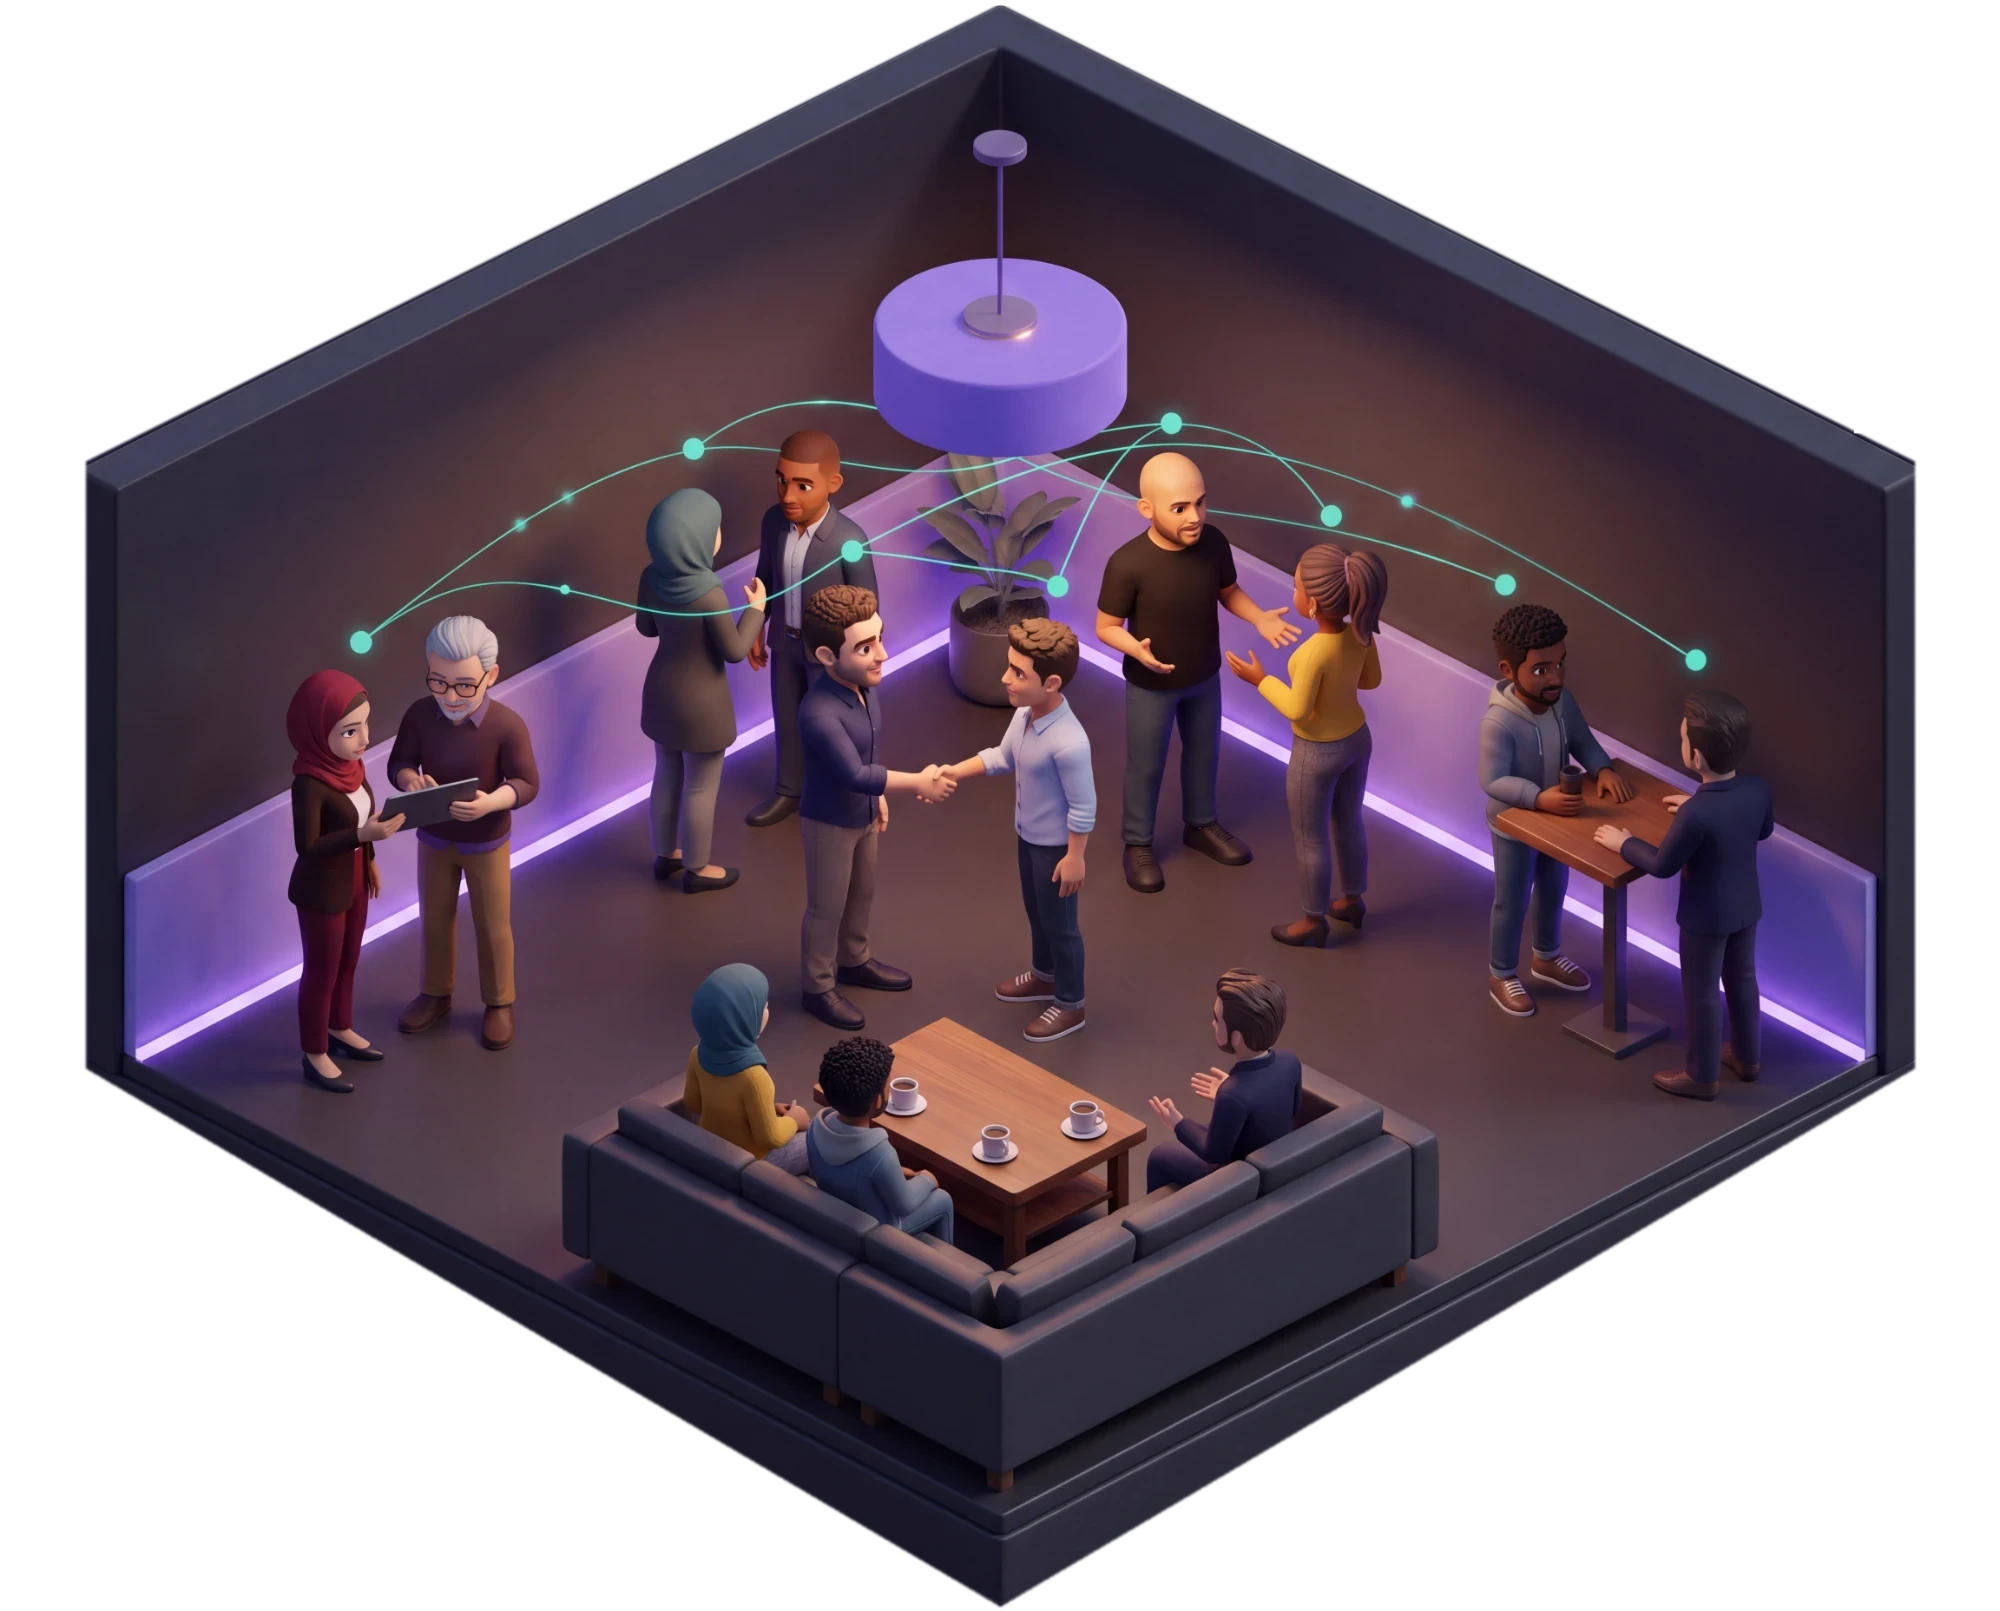
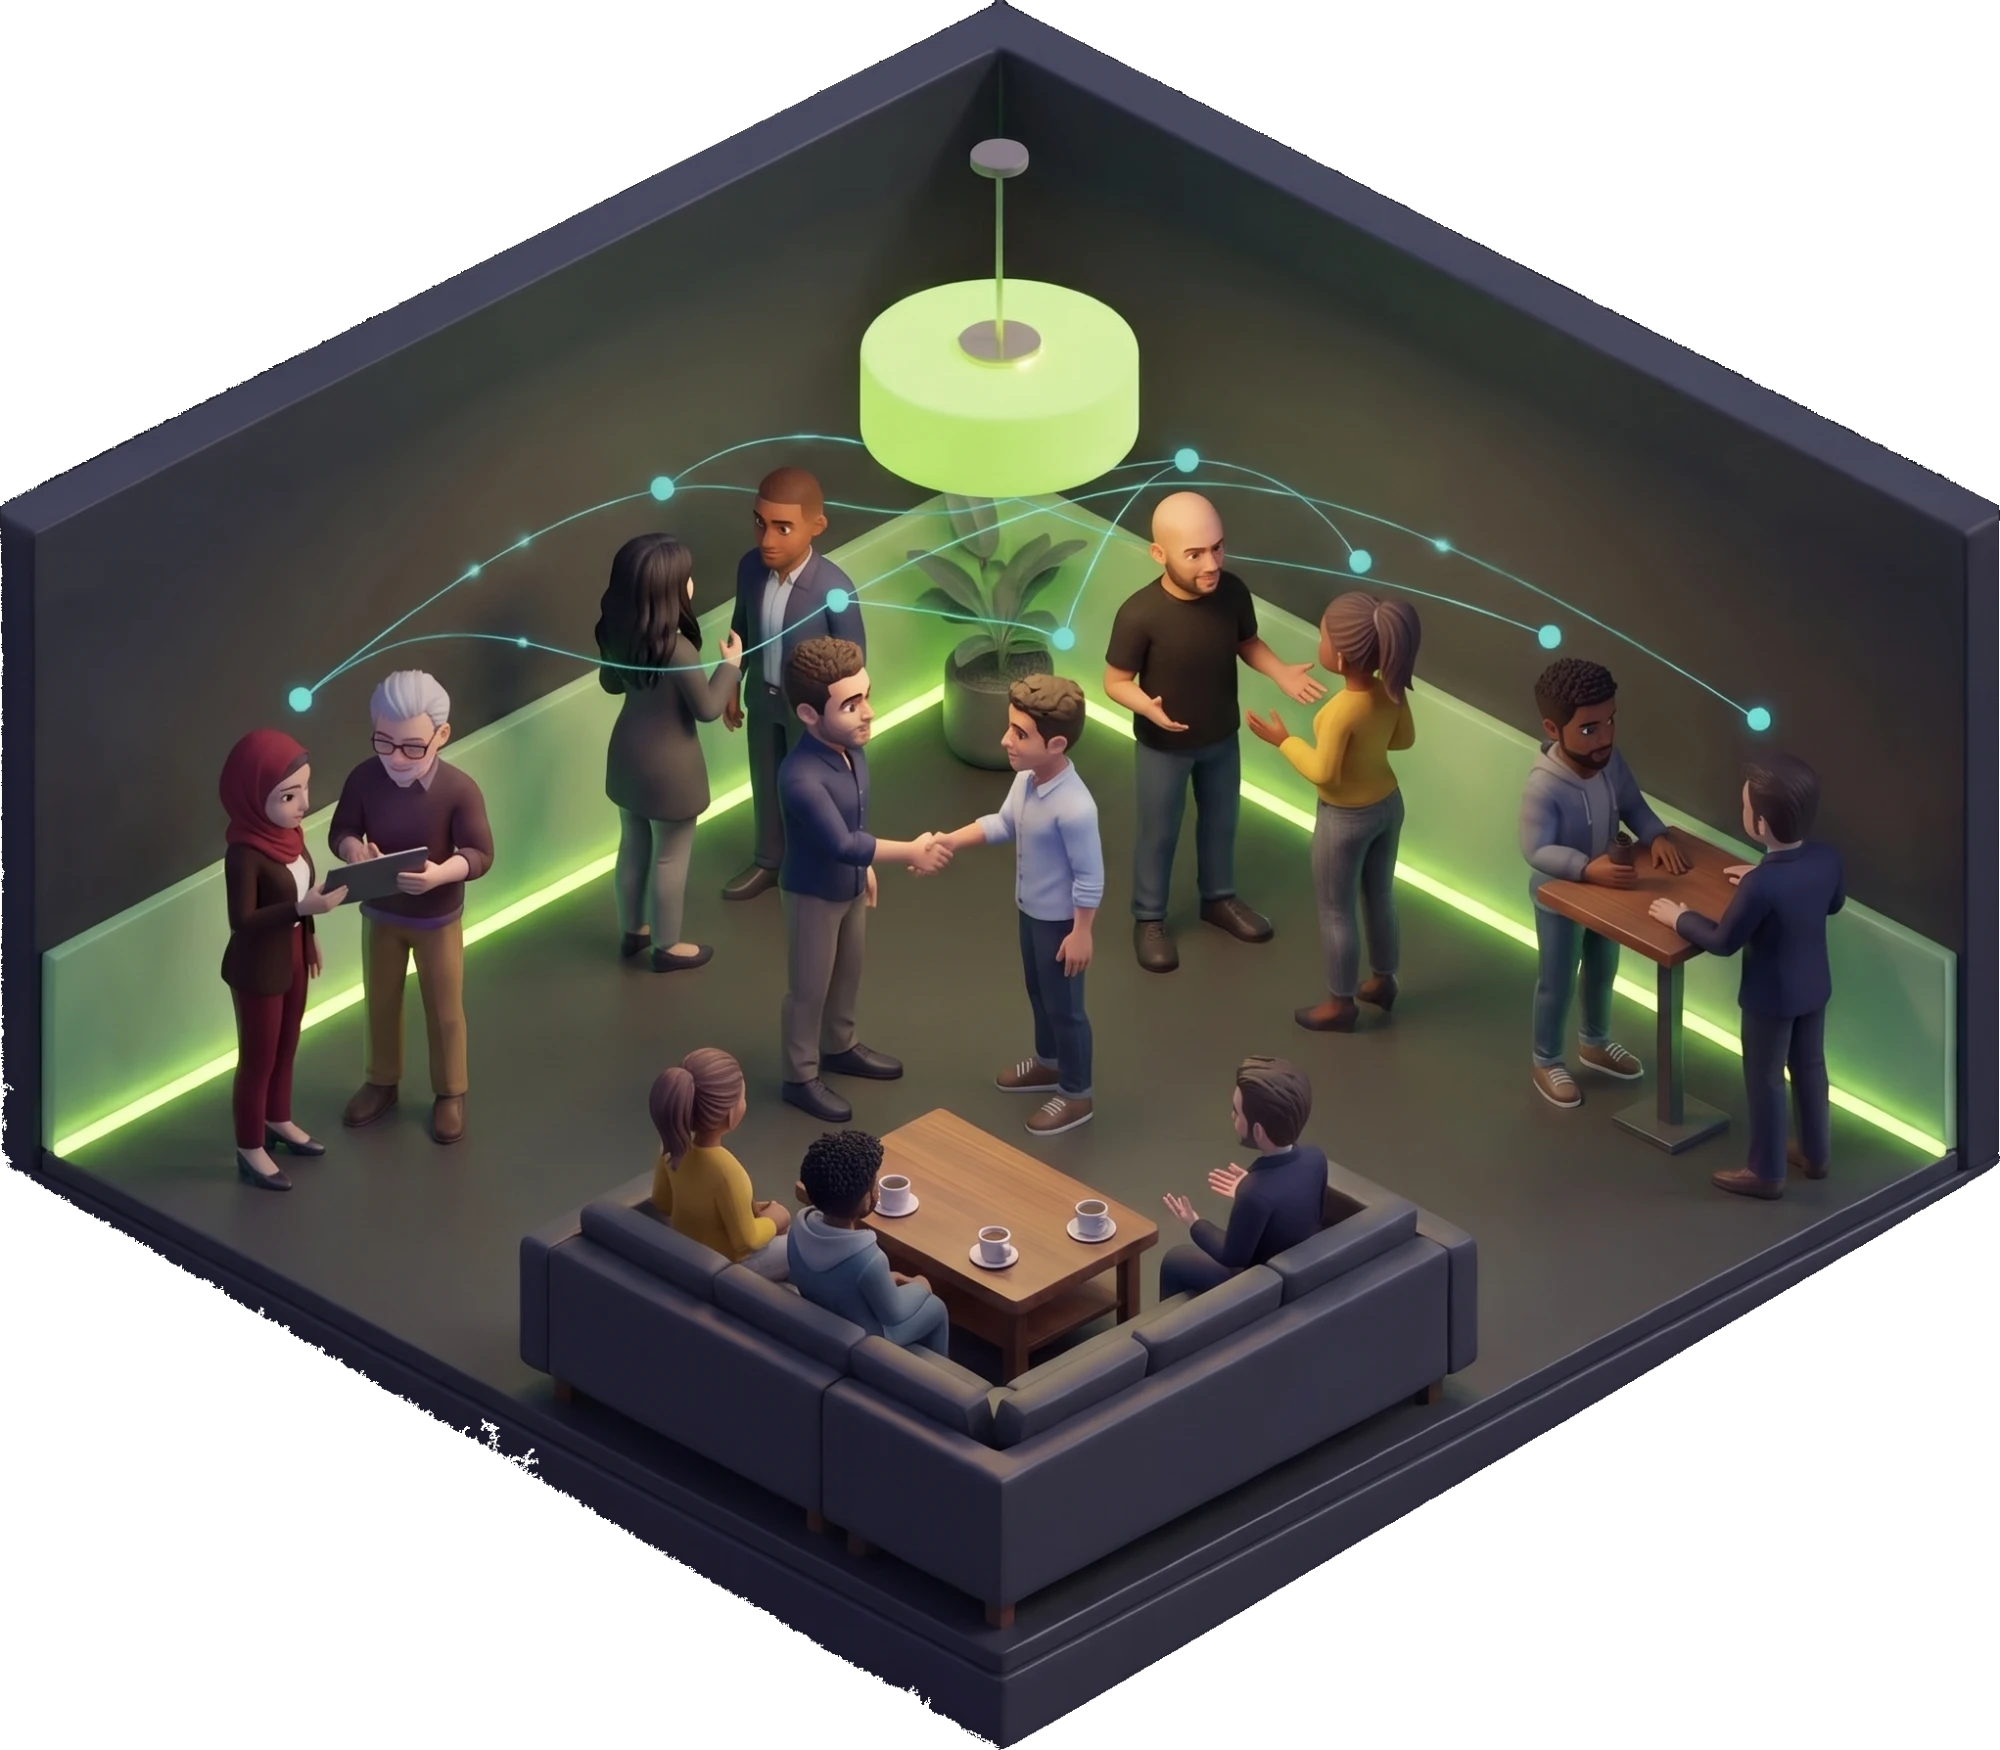
BLong scene: one hijab, green light
Claude-Session: https://claude.ai/code/session_018RCKuAqLNg43PyQqtjNNDi

diff --git a/src/components/house/scenes.ts b/src/components/house/scenes.ts
@@ -58,7 +58,7 @@ export const SCENES: Partial<Record<SpaceKey, Scene>> = {
     labels: [{ label: "QuidQuo", x: 72, y: 22 }, { label: "Handlr", x: 30, y: 30 }],
   },
   blong: {
-    src: "/landing/blong.webp", width: 2000, height: 1611, alt: "BLong: members networking in a lounge under a violet light, linked by teal threads",
+    src: "/landing/blong.webp", width: 2000, height: 1750, alt: "BLong: members networking in a lounge under a green light, linked by teal threads",
     flows: [],
     labels: [{ label: "Meet", x: 20, y: 30 }, { label: "Talk", x: 50, y: 14 }, { label: "Connect", x: 82, y: 32 }],
   },

diff --git a/src/app/site/page.tsx b/src/app/site/page.tsx
@@ -156,7 +156,7 @@ const SPACES: Space[] = [
     cta: "Meet the community",
     href: "/blong/networking",
     photo: "/landing/blong.webp",
-    size: [2000, 1611],
+    size: [2000, 1750],
     labels: [{ label: "Meet", x: 20, y: 30 }, { label: "Talk", x: 50, y: 14 }, { label: "Connect", x: 82, y: 32 }],
     flows: [],
     icon: Network,

diff --git a/CLAUDE.md b/CLAUDE.md
@@ -116,3 +116,4 @@ Add product decisions here as they are made (prices, refund policy, roles, langu
 - Phase 19d live (2026-11-25): filters and sort under BLong lists (a Filters button, choices kept in the address). Communities: topic, audience, Public/Private, size; sort by members, newest, name. Discussions: community, who can join, open/closed, tag, has room; sort by active, newest, members (both filtered in the app, `src/lib/blong/filters.ts`). Networking › Members: country, business type, venture stage, Public/Private, follows you; sort by name or newest (`member_search`, `member_countries`). Feed: by kind. Phase 19 complete.
 - House look tweaks (2026-11-25, asked by Ahmed): the morph between spaces replaced by a light slide-and-fade (the scene lags a little, scales to 90% and fades; transform and opacity only, no blur, 3D turn or clipping) because the morph was heavy and glitchy. My space no longer has My communities / My discussions icons (they live in BLong); the floating card is Saved.
 - Eureka (2026-11-26, asked by Ahmed): the QuidQuo space becomes Eureka, our products lab, with two products: QuidQuo (AI for capital formation) and Handlr (AI executive assistant for professionals and businesses). Colours swapped: Eureka violet `#7C5CE0` (tint `#B4A2F5`), BLong green `#8DBF2E` (tint `#B4DD5E`); the internal space key and `qq` tokens stay `quidquo`. Each product has its own stages, build log and waitlist (`product` column on `qq_stages`, `qq_log`, `waitlist`; one entry per member per product; Handlr started with a copy of QuidQuo's stages). Handlr waitlist roles: Professional, Business owner or team, Executive assistant or operations. Member pages `/eureka` (product cards) and `/eureka/[product]` (logo banner, stages, build log, waitlist, `?tab=waitlist`); `/quidquo` redirects there, invite links included. Product config and logos in `src/lib/eureka.ts`; QuidQuo logos in `public/brand/products/quidquo/` (Handlr shows a wordmark until its logo arrives). Admin › Eureka (`/admin/eureka`, product tabs, each with Stages / Build log / Waitlist; access area key stays `quidquo`). The "QuidQuo waitlist" Library level stays QuidQuo's list only. Renamed on the landing page too. Desktop moves between spaces with an eased glide (snap paused while it runs); phones keep the native swipe.
+- BLong scene (2026-11-26, asked by Ahmed): `public/landing/blong.webp` regenerated in AI Studio (Nano Banana Pro, 2K) from the previous one: one woman in a hijab instead of three, lit in BLong green instead of violet; 2000 × 1750, transparent background.
